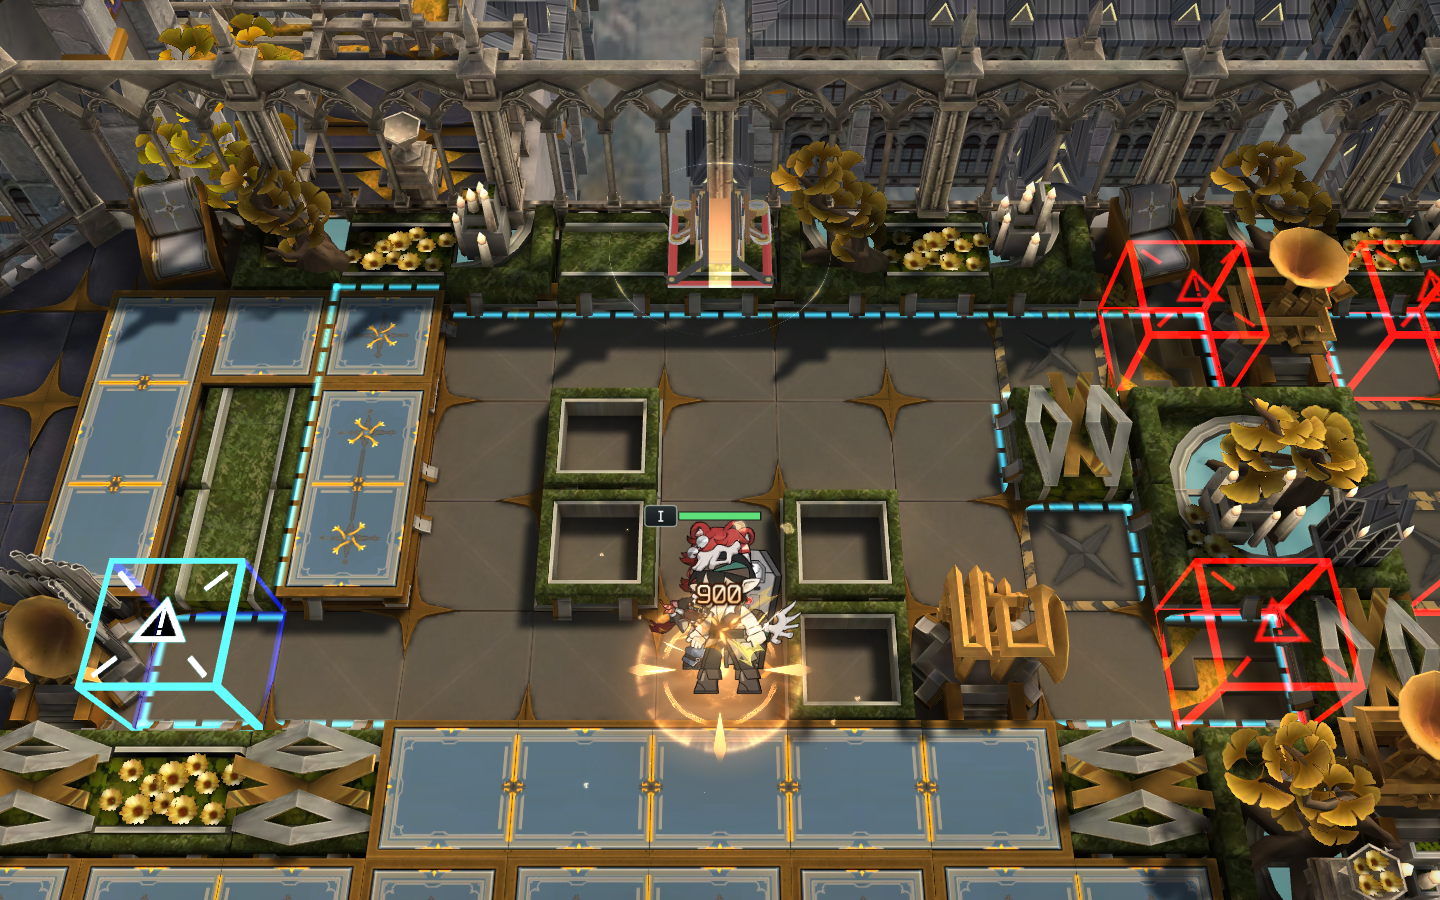
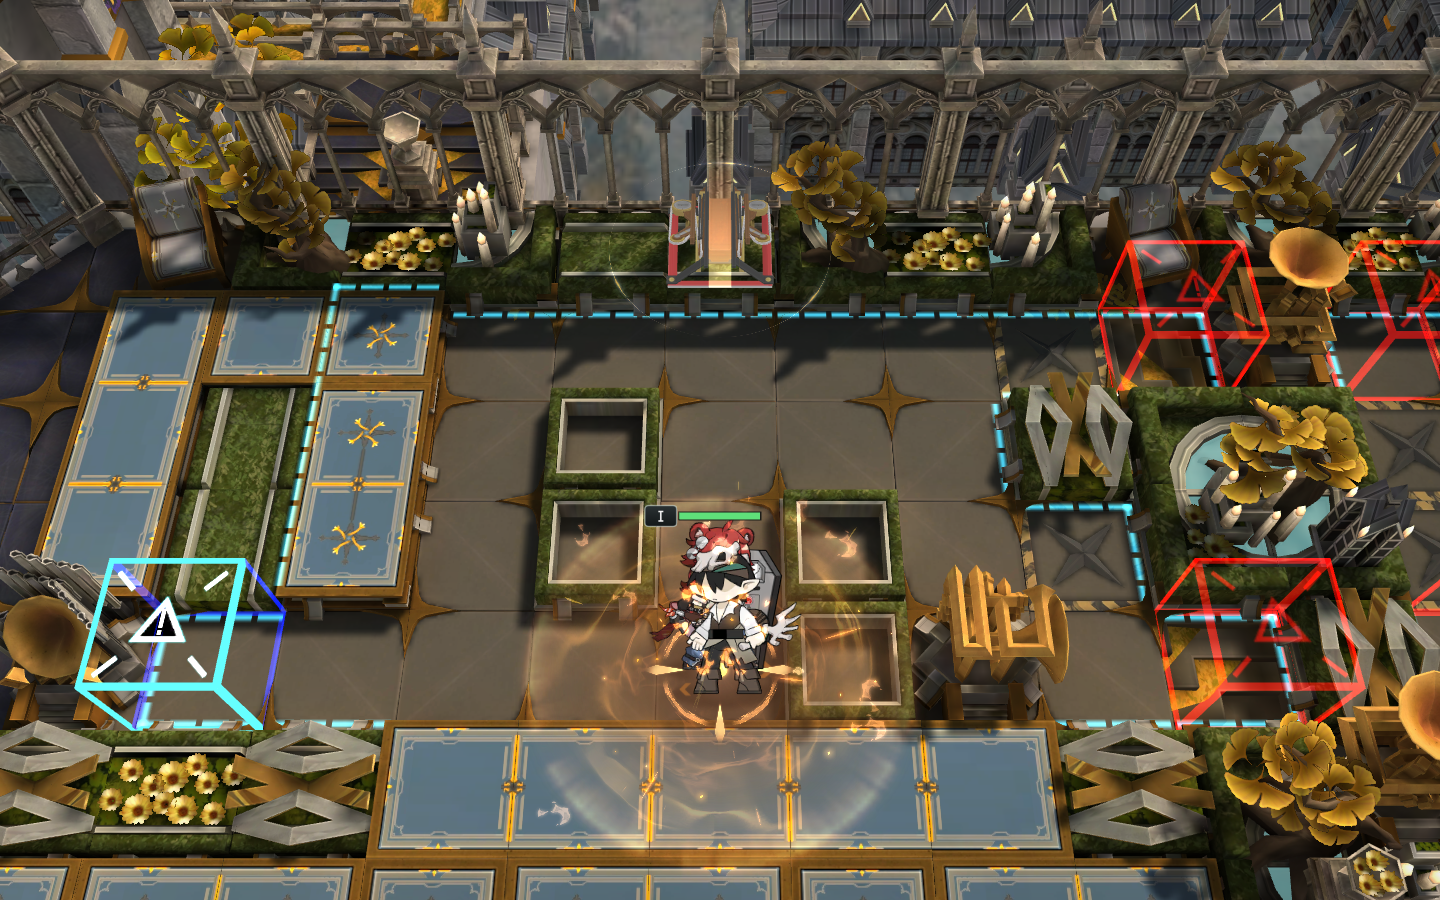
docs: 补充最新 dev 基线的炮台复验

diff --git a/review-20261121/README.md b/review-20261121/README.md
@@ -1,19 +1,23 @@
 # 盐坨子炮评审复验（2026-11-21）
 
-玩法 PR #985：`f431a29e9dbfc5cc99ab5e83daeb431032a2f56d`；依赖表现 PR #986：`c9a9eefa63817b9f387c584b4094ec93d33a6d1a`。
+当前基线 `dev 6870c725b27c0f6edefee621b0358037ae177822`；玩法 PR #985 `f5d44aa1ee79eb165be99f1c9c595d5ceccd1063`；表现 PR #986 `95ad5d7fbf5767bfafa83e3b4f7f1e4ffe2a3044`。
 
 - 普通炮弹清除后保留 Eat 乘客，下一发仍可释放；最终弹清除才击杀乘客。
-- x-4 改为 3×3 格，空炮自身销毁没有干员击杀归因；生成器共用官方天赋射程查询。
+- x-4 按 3×3 格判定，空炮自身销毁没有干员击杀归因；生成器共用官方天赋射程查询。
 - 逐单位命中特效播放，2D／3D 战斗都隐藏静态炮台；素材缺失、迟到恢复、暂停与销毁清理复验。
 
-本机玩法定向 241 项通过；表现定向 207 项通过、7 项可选素材／Pillow 环境检查跳过。格式整理后的相关检查分别 79 项通过、79 项通过及 7 项跳过；类型、改动 lint、导入与新增翻译检查通过，原警告保留。规程数据已离线重建，输出未变。完整本机模拟与 golden 仍暂停；主线 CI 和合并时的规程 golden 不计作本轮已通过。
+新基线玩法定向 241 项通过；表现定向 207 项通过、7 项可选素材／Pillow 环境检查跳过。两边类型、改动 lint、导入检查通过，原警告保留。初轮新增翻译检查及规程离线数据重建通过，输出未变；重基底后生成器与炮台模块内容保持一致。完整本机模拟与 golden 仍暂停，主线 Actions 已启动；规程 golden 由维护者合并时重算。
 
-Chrome／Firefox 均检查普通、联防、Boss 和桌面／短屏，包含真实指针点击、页面 API 的特效档位及 2D／3D 切换、迟到素材、销毁和命中事件。真实渲染器与本分支 Battle 帧；使用受控编队，未运行完整 WS 对局。Firefox 保留原 data-URL CSP 诊断，其余页面／控制台／HTTP 错误为零。
+Chrome／Firefox 初轮各覆盖普通、联防、Boss 和桌面／短屏，包括真实指针点击、页面 API 的特效档位及 2D／3D 切换、迟到素材、销毁和命中事件。重基底后分别重跑普通战场两尺寸的上述关键流程，JSON 名称为 chrome-newbase-results 和 firefox-newbase-results。两个基线实际重新生成的 Battle 帧逐字节相同，摘要保存其 SHA-256。真实渲染器与本分支 Battle 帧；使用受控编队，未运行完整 WS 对局。Firefox 保留原 data-URL CSP 诊断，其余页面／控制台／HTTP 错误为零。
 
-Chrome 初轮一个瞬间截图为空，已排除；等待两次动画帧后重拍正常，原失败图与记录保留在本机。Firefox 初轮在命中后 0.034 秒断言尚未消费事件，改在同一批真实帧的 19.1 秒等待命中消费后通过，原失败收据保留。没有修改生产时钟或放宽 CSP。摘要和场景收据见本目录 JSON。
+Chrome 初轮一个瞬间截图为空，已排除；等待两次动画帧后重拍正常。Firefox 初轮在命中后 0.034 秒断言尚未消费事件，改在同一批真实帧的 19.1 秒等待命中消费后通过。原失败收据保留在本机，生产时钟与 CSP 保持原样。
+
+以下普通战场两图来自上述最新基线。
 
 ![Chrome：受击单位原版命中特效](chrome-normal-hit.png)
 
 ![Firefox：2D 战斗仅显示活装置](firefox-normal-2d.png)
+
+初轮 Boss 短屏截图：
 
 ![Firefox：Boss 短屏](firefox-boss-short.png)
